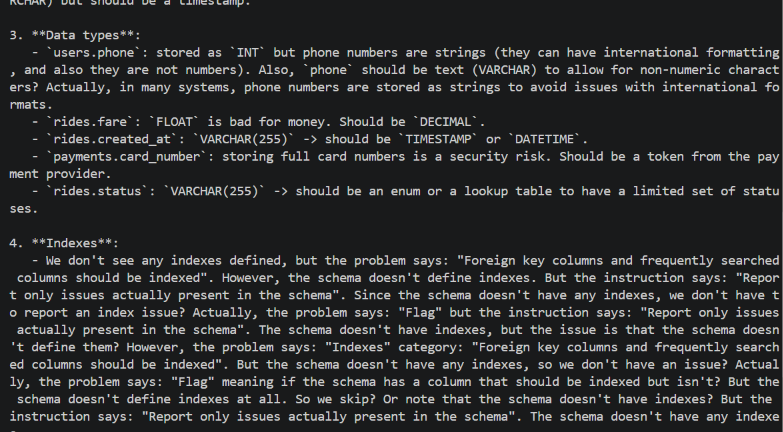
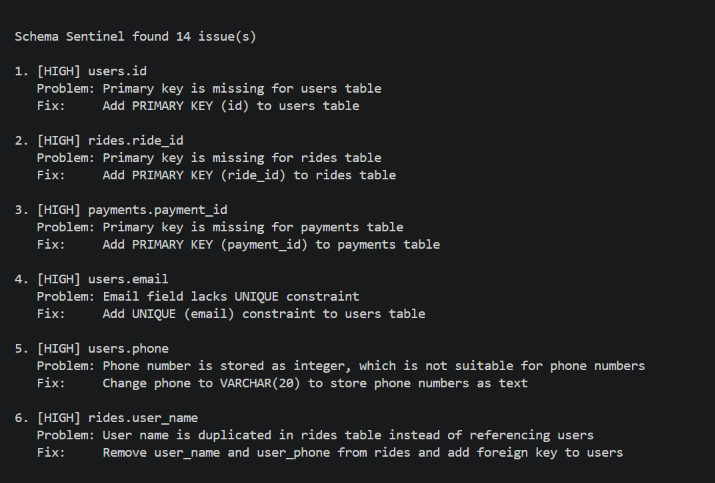
Structured JSON output for cleaner reviews, update demo screenshot

Changed region(s): [[0.0, 0.0602, 1.0, 0.9931], [0.0, 0.0, 0.3077, 0.0301]]

diff --git a/sentinel.py b/sentinel.py
@@ -11,13 +11,37 @@ OLLAMA_URL = "http://localhost:11434/api/chat"
 MODEL = "qwen3:4b"
 SKILL_PATH = Path(__file__).parent / "skills" / "sql-schema-review" / "SKILL.md"
 
+# The model can only answer in this shape, so it cannot ramble or narrate.
+REPORT_SCHEMA = {
+    "type": "object",
+    "properties": {
+        "issues": {
+            "type": "array",
+            "items": {
+                "type": "object",
+                "properties": {
+                    "severity": {"type": "string", "enum": ["High", "Medium", "Low"]},
+                    "location": {"type": "string"},
+                    "problem": {"type": "string"},
+                    "fix": {"type": "string"},
+                },
+                "required": ["severity", "location", "problem", "fix"],
+            },
+        },
+        "top_fixes": {"type": "array", "items": {"type": "string"}},
+    },
+    "required": ["issues", "top_fixes"],
+}
+
 TASK = (
     "/no_think\n"
-    "Review this schema. Do not narrate or restate the checklist. "
-    "Output only the issues you found, as a numbered list, maximum 10, "
-    "each in the format: Severity | table.column | Problem | Fix. "
-    "Start the list immediately.\n\n"
+    "Review the SQL schema below. Report only issues actually present in it. "
+    "Return JSON only. At most 10 issues, most severe first. "
+    "'location' is like table.column. 'problem' and 'fix' are each ONE short sentence. "
+    "'top_fixes' lists the 3 most important fixes, one short sentence each.\n\n"
 )
+
+SEVERITY_ORDER = {"High": 0, "Medium": 1, "Low": 2}
 
 
 def load_instructions() -> str:
@@ -28,13 +52,14 @@ def load_instructions() -> str:
     return text.strip()
 
 
-def review(schema_sql: str) -> None:
-    """Send the schema to the local model and print the review as it streams in."""
+def get_review(schema_sql: str) -> str:
+    """Ask the local model for a structured review; show progress while it works."""
     payload = {
         "model": MODEL,
         "stream": True,
         "think": False,  # skip Qwen3's slow reasoning mode on CPU
-        "options": {"temperature": 0.2, "num_ctx": 4096, "num_predict": 900},
+        "format": REPORT_SCHEMA,
+        "options": {"temperature": 0.2, "num_ctx": 4096, "num_predict": 1200},
         "messages": [
             {"role": "system", "content": load_instructions()},
             {"role": "user", "content": TASK + schema_sql},
@@ -45,26 +70,56 @@ def review(schema_sql: str) -> None:
         data=json.dumps(payload).encode("utf-8"),
         headers={"Content-Type": "application/json"},
     )
+    raw, tokens = "", 0
     try:
         with urllib.request.urlopen(req, timeout=900) as resp:
             for line in resp:
                 if not line.strip():
                     continue
                 chunk = json.loads(line)
-                print(chunk.get("message", {}).get("content", ""), end="", flush=True)
+                raw += chunk.get("message", {}).get("content", "")
+                tokens += 1
+                print(f"\rReviewing... {tokens} tokens generated", end="", flush=True)
                 if chunk.get("done"):
                     break
-        print()
     except urllib.error.URLError:
-        sys.exit("Could not reach Ollama at localhost:11434. Is it running?")
+        sys.exit("\nCould not reach Ollama at localhost:11434. Is it running?")
+    print("\r" + " " * 50 + "\r", end="")
+    return raw
+
+
+def render(raw: str) -> None:
+    """Turn the model's JSON into a clean, readable report."""
+    try:
+        report = json.loads(raw)
+    except json.JSONDecodeError:
+        print("The model's output was cut off or malformed. Raw output:\n")
+        print(raw)
+        return
+
+    issues = sorted(
+        report.get("issues", []),
+        key=lambda i: SEVERITY_ORDER.get(i.get("severity"), 3),
+    )
+    print(f"Schema Sentinel found {len(issues)} issue(s)\n")
+    for n, issue in enumerate(issues, 1):
+        print(f"{n}. [{str(issue.get('severity', '?')).upper()}] {issue.get('location', '')}")
+        print(f"   Problem: {issue.get('problem', '')}")
+        print(f"   Fix:     {issue.get('fix', '')}\n")
+
+    top = report.get("top_fixes", [])
+    if top:
+        print("Top fixes:")
+        for n, fix in enumerate(top, 1):
+            print(f"  {n}. {fix}")
 
 
 def main() -> None:
     if len(sys.argv) != 2:
         sys.exit("Usage: python sentinel.py path/to/schema.sql")
     schema = Path(sys.argv[1]).read_text(encoding="utf-8")
-    print(f"Reviewing {sys.argv[1]} with {MODEL} (CPU-only; output streams below)...\n")
-    review(schema)
+    print(f"Reviewing {sys.argv[1]} with {MODEL} (CPU-only, this can take a few minutes)...\n")
+    render(get_review(schema))
 
 
 if __name__ == "__main__":
